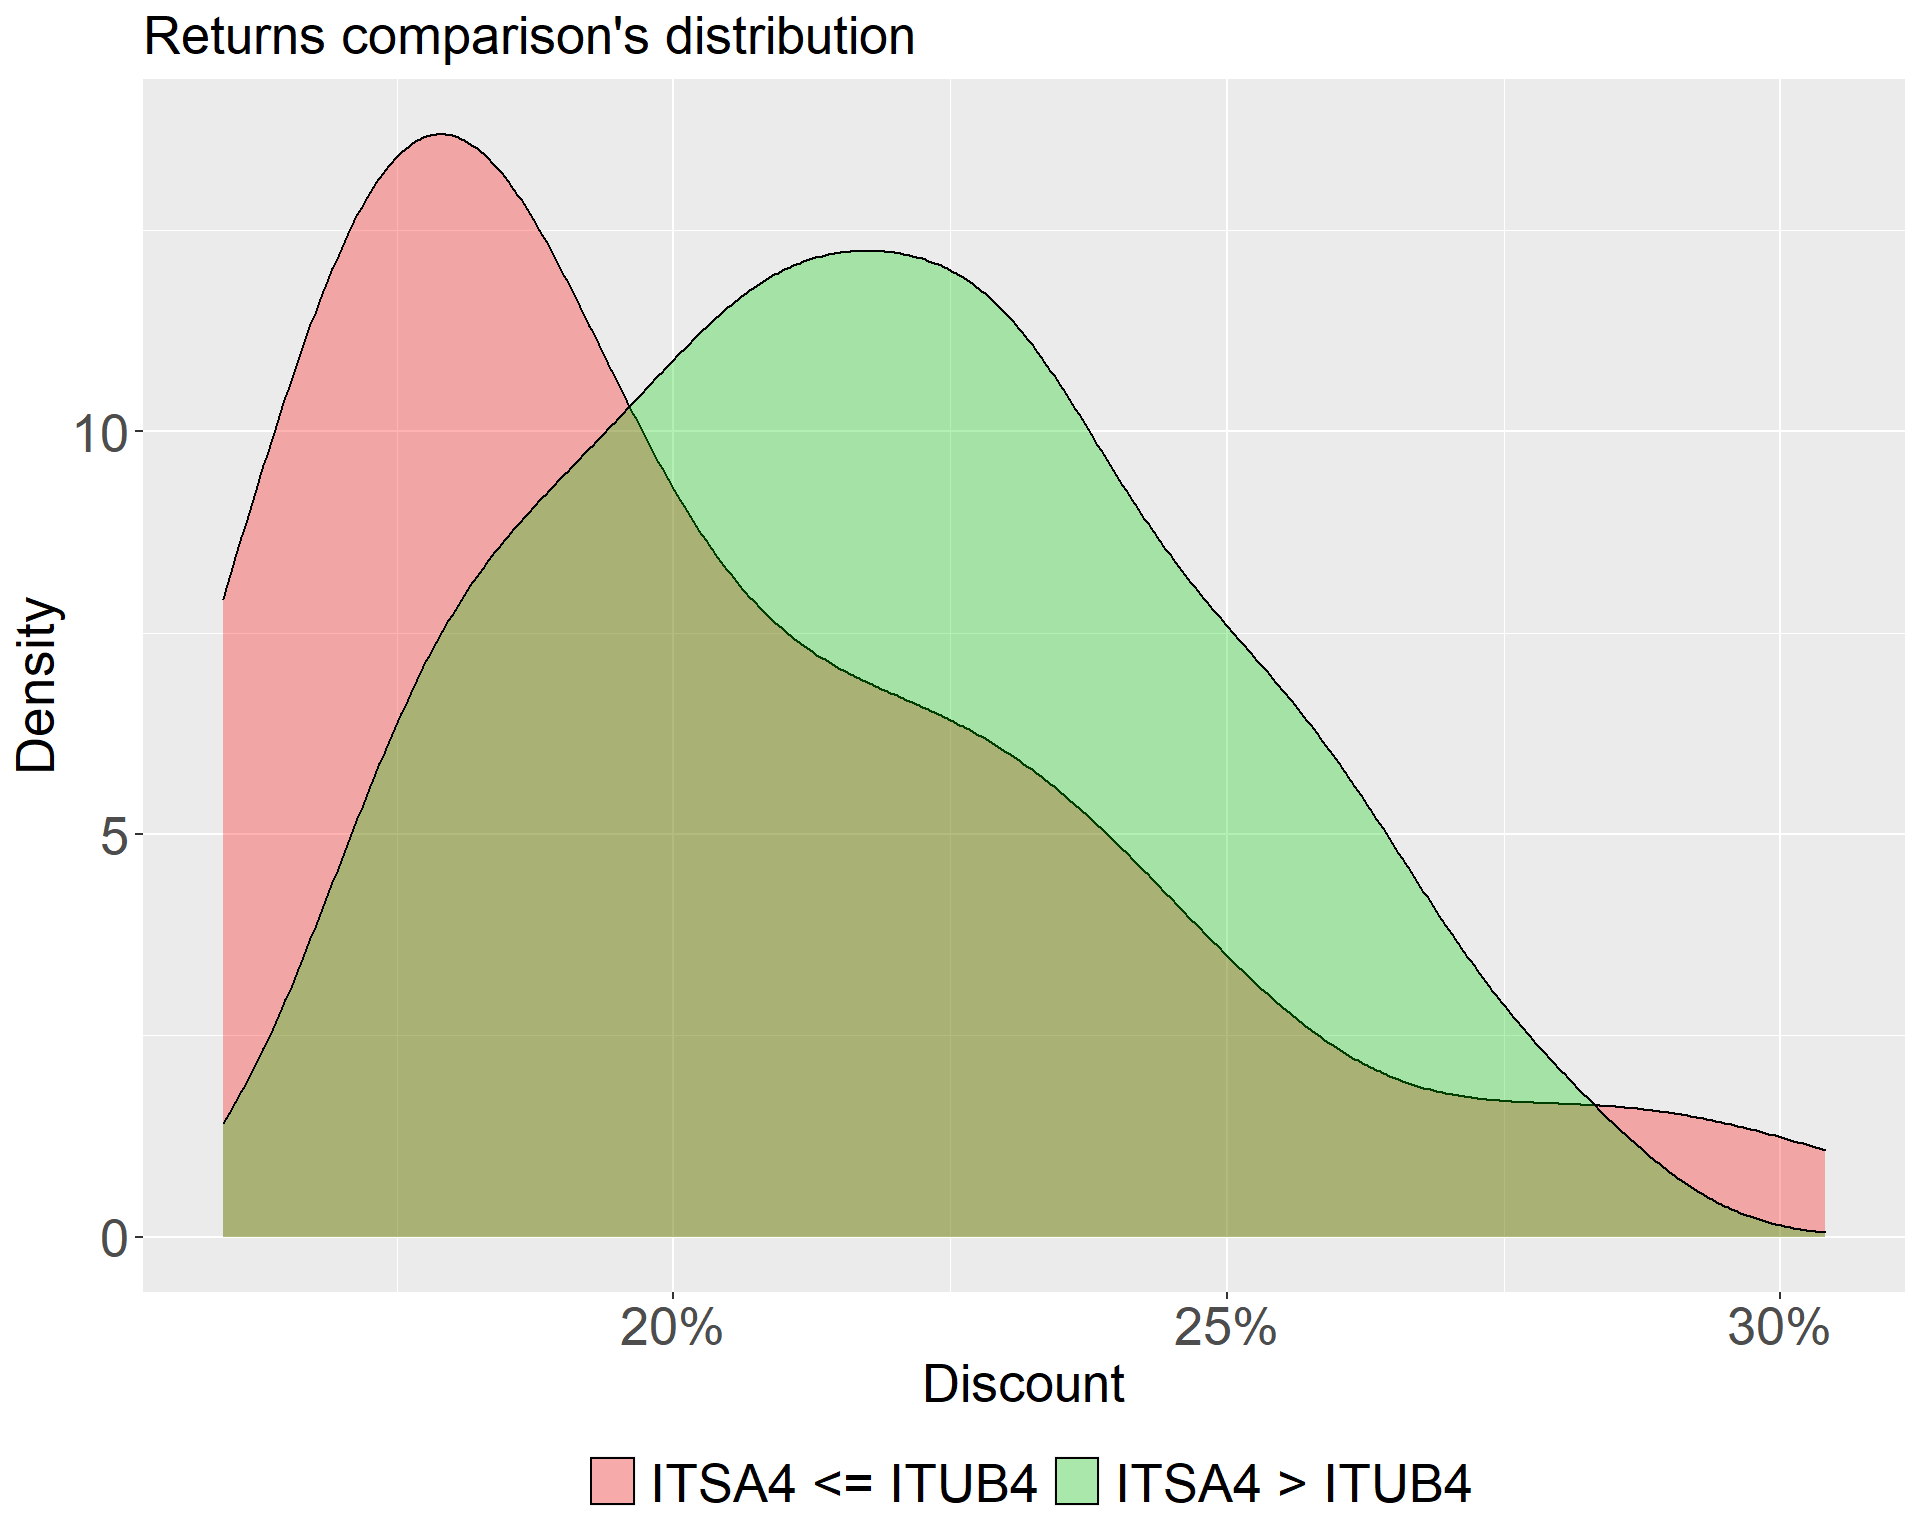
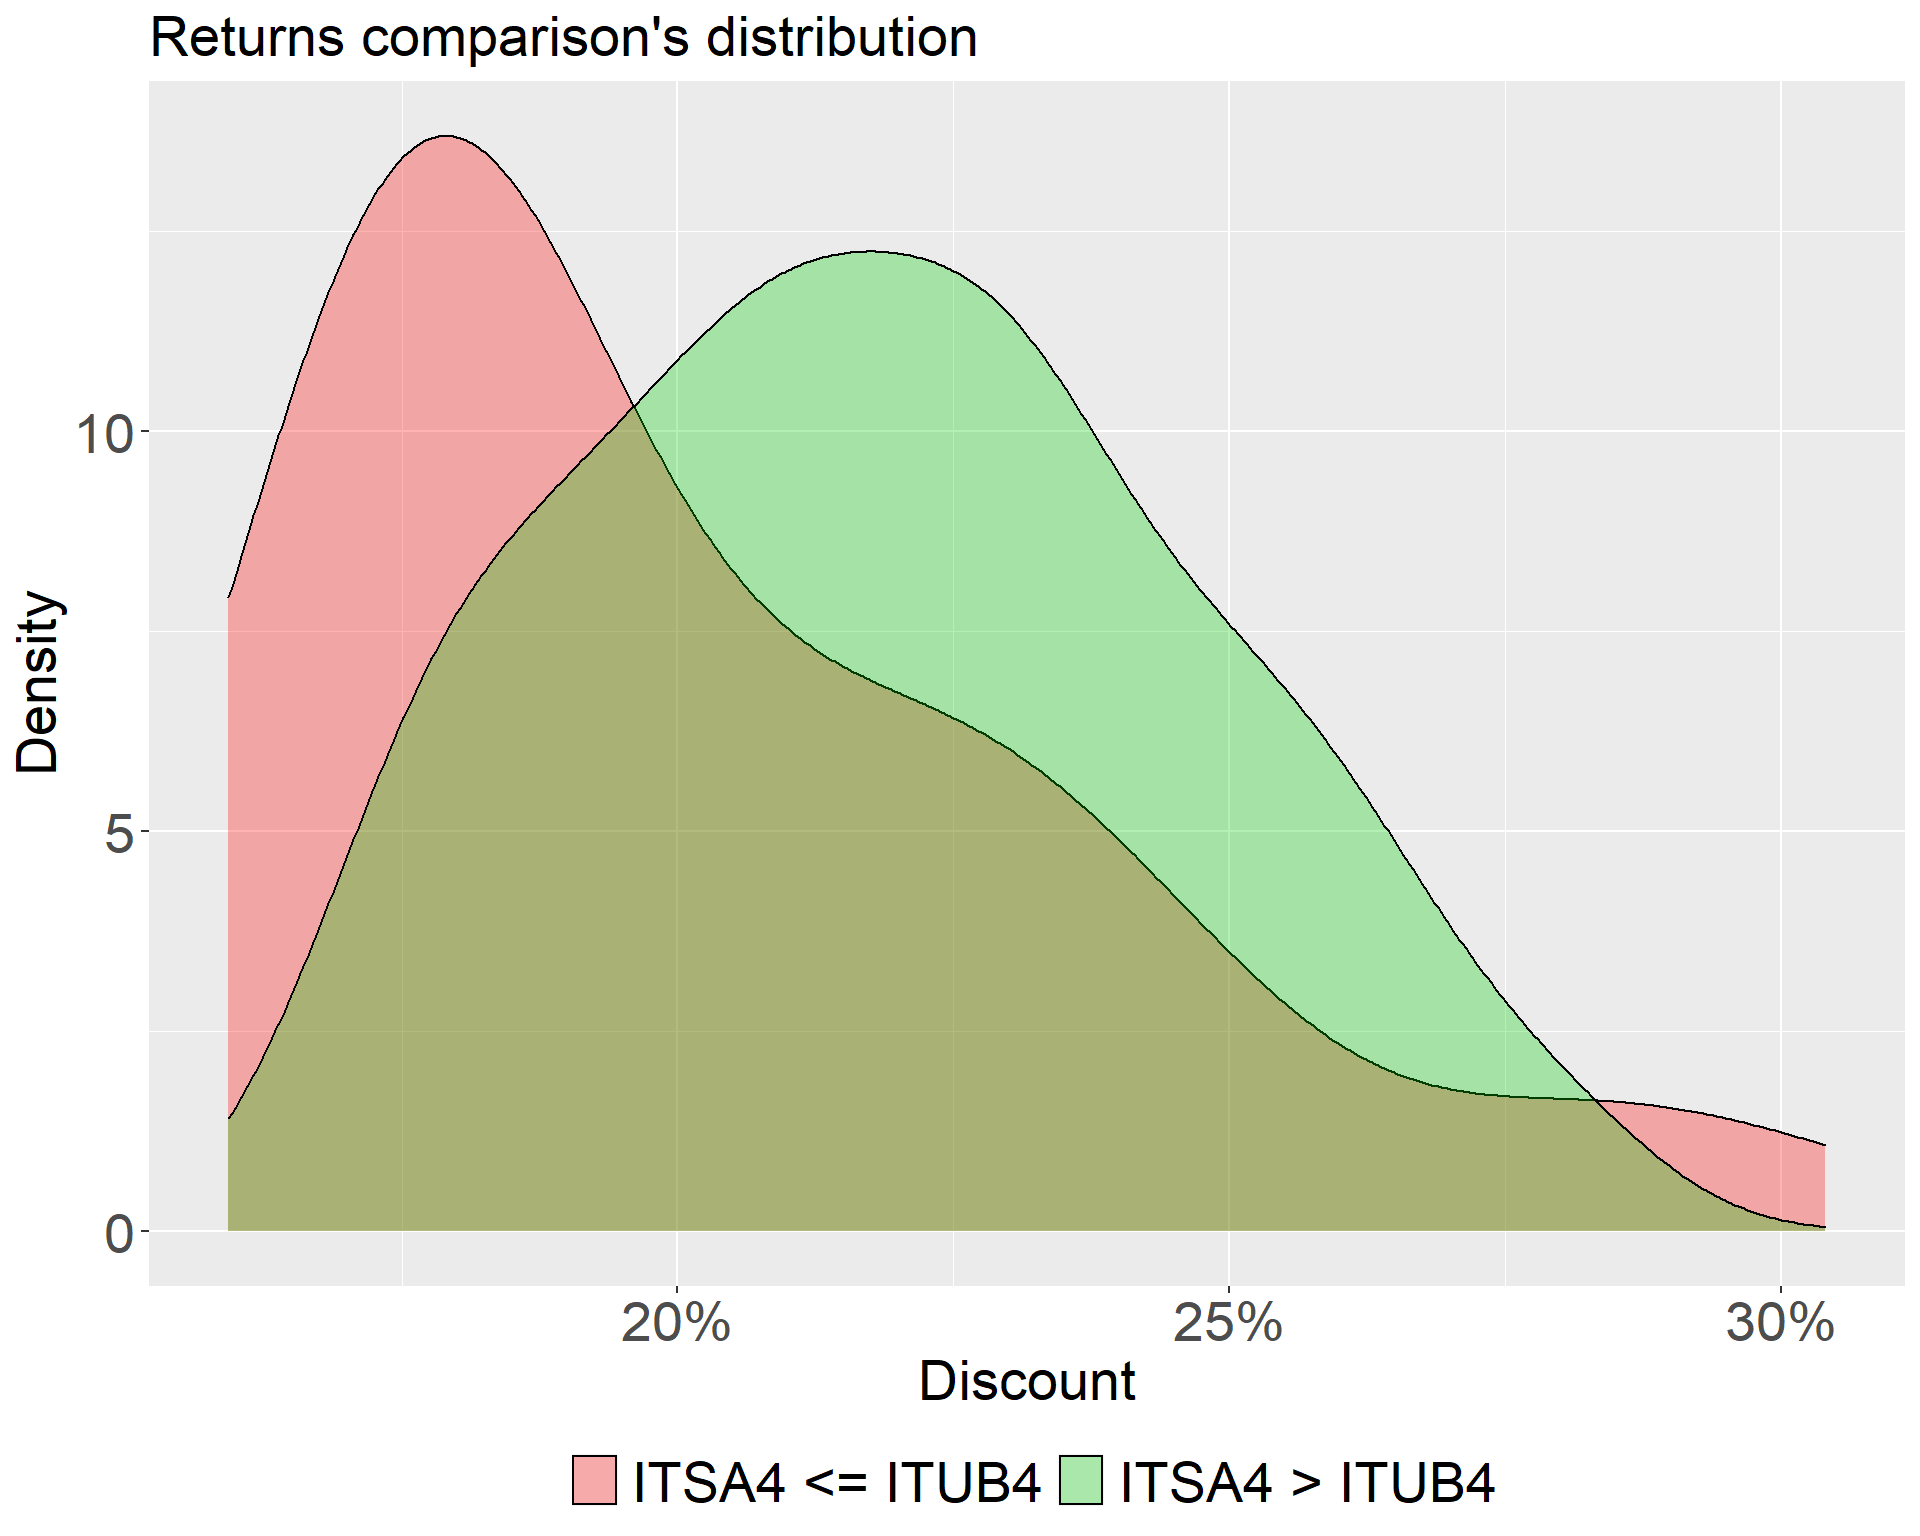
Update post

diff --git a/content/post/2021-07-31-arbitrate-itsa4-itub4/index.en.html b/content/post/2021-07-31-arbitrate-itsa4-itub4/index.en.html
@@ -48,13 +48,13 @@ g &lt;- ggscatter(data = merge, x = &quot;itsa_price&quot;, y = &quot;itub_price
                add.params = list(color = &quot;blue&quot;, fill = &quot;lightgray&quot;), 
                conf.int = TRUE)
 g + 
-  stat_cor(method = &quot;pearson&quot;, label.x = 3, label.y = 30, size = 10) + 
+  stat_cor(method = &quot;pearson&quot;, label.x = 3, label.y = 30, size = 9) + 
   labs(x = &quot;ITSA4&quot;,
        y = &quot;ITUB4&quot;,
        title = &quot;Scatterplot ITSA4 versus ITUB4&quot;) + 
-  theme(axis.text=element_text(size=20),
-        axis.title=element_text(size=20),
-        plot.title = element_text(size=20))</code></pre>
+  theme(axis.text=element_text(size=21),
+        axis.title=element_text(size=21),
+        plot.title = element_text(size=21))</code></pre>
 <p><img src="{{< blogdown/postref >}}index.en_files/figure-html/correlation-1.png" width="960" /></p>
 <p>As you can see, correlatin is equal to 0.99, which means that ITUB4 and ITSA4 mean almost the same thing. As a holding, ITSA4 is traded at a discount in relation to the sum of its investees’ market capitalization. But, how much is the “fair” discount, and can we buy ITSA4 simply to get ITUB4 at lower prices? These are the questions that this post intends to answer.</p>
 <p>Fortunatelly, Itaúsa calculates this discount for us, in a monthly basis (click <a href="https://www.itausa.com.br/ListAtivos.aspx?idCanal=Afrgtrc88Ma15TQHbkasoQ==&amp;linguagem=pt&amp;ano=2021">here</a> to get the data). If you don’t want to or don’t know how to get your hands dirty, I have already done the job, which you can see on the plot below:</p>
@@ -78,9 +78,9 @@ ggplot(data = df, aes(x = date, y = discount)) +
   labs(x = &quot;Date&quot;,
        y = &quot;Discount&quot;,
        title = &quot;Holding&#39;s discount in relation to shares held in investee companies&quot;) + 
-  theme(axis.text=element_text(size=20),
-        axis.title=element_text(size=20),
-        plot.title = element_text(size=20))</code></pre>
+  theme(axis.text=element_text(size=21),
+        axis.title=element_text(size=21),
+        plot.title = element_text(size=21))</code></pre>
 <p><img src="{{< blogdown/postref >}}index.en_files/figure-html/plot%20discount%20time%20series-1.png" width="960" /></p>
 <p>Dashed horizontal lines represent the mean (at the center), mean plus 1 standard deviation (at the top), and mean minus 1 standard deviation (at the bottom). In other words, in most part of the time, this discount ranges between something like 18% and 25%. Another way of visualizing the same information is plotting an histogram:</p>
 <pre class="r"><code># plot distribution
@@ -93,9 +93,9 @@ ggplot(data = df, aes(x = discount)) +
        title = &quot;Discount&#39;s Distribution&quot;) + 
   geom_vline(xintercept = mean(df$discount), 
              linetype = &quot;dashed&quot;, size = 1, color = &quot;red&quot;) + 
-  theme(axis.text=element_text(size=20),
-        axis.title=element_text(size=20),
-        plot.title = element_text(size=20))</code></pre>
+  theme(axis.text=element_text(size=21),
+        axis.title=element_text(size=21),
+        plot.title = element_text(size=21))</code></pre>
 <p><img src="{{< blogdown/postref >}}index.en_files/figure-html/discount%20histogram-1.png" width="960" /></p>
 <p>Red dashed vertical line represents the mean. Distribution is rigth-skewed, which means that in some occasions the discount was too high (more than 30%). Numerically, let’s view the summary stats:</p>
 <pre class="r"><code># summary statistics
@@ -147,9 +147,9 @@ ggplot(data = data,
        title = &quot;Returns comparison&#39;s boxplot&quot;) + 
   theme(legend.position = &quot;none&quot;) + 
   scale_fill_manual(values = c(&quot;red3&quot;,&quot;green4&quot;)) + 
-  theme(axis.text=element_text(size=20),
-        axis.title=element_text(size=20),
-        plot.title = element_text(size=20))</code></pre>
+  theme(axis.text=element_text(size=21),
+        axis.title=element_text(size=21),
+        plot.title = element_text(size=21))</code></pre>
 <p><img src="{{< blogdown/postref >}}index.en_files/figure-html/sucess%20failure%20boxplot-1.png" width="960" /></p>
 <p>A density distribution:</p>
 <pre class="r"><code># density of difference on returns                           
@@ -161,10 +161,10 @@ ggplot(data = data, aes(x = discount, fill = factor(success))) +
        title = &quot;Returns comparison&#39;s distribution&quot;) + 
   theme(legend.position = &quot;bottom&quot;,
         legend.title = element_blank(),
-        legend.text = element_text(size=20),
-        axis.text=element_text(size=20),
-        axis.title=element_text(size=20),
-        plot.title = element_text(size=20)) + 
+        legend.text = element_text(size=21),
+        axis.text=element_text(size=21),
+        axis.title=element_text(size=21),
+        plot.title = element_text(size=21)) + 
   scale_fill_manual(labels = c(&quot;ITSA4 &lt;= ITUB4&quot;, &quot;ITSA4 &gt; ITUB4&quot;),
                     values = c(&quot;red&quot;,&quot;green3&quot;))</code></pre>
 <p><img src="{{< blogdown/postref >}}index.en_files/figure-html/success%20failure%20density-1.png" width="960" /></p>
@@ -182,10 +182,10 @@ data %&gt;%
        y = &quot;Count&quot;,
        title = &quot;Returns comparison&#39;s distribution&quot;) + 
   theme(legend.position = &quot;none&quot;,
-        axis.text=element_text(size=20),
-        axis.title=element_text(size=20),
-        plot.title = element_text(size=20),
-        strip.text = element_text(size = 20)) + 
+        axis.text=element_text(size=21),
+        axis.title=element_text(size=21),
+        plot.title = element_text(size=21),
+        strip.text = element_text(size = 21)) + 
   scale_fill_manual(values=c(&quot;red&quot;, &quot;green3&quot;))</code></pre>
 <p><img src="{{< blogdown/postref >}}index.en_files/figure-html/success%20failure%20histogram-1.png" width="960" /></p>
 <p>On the three plots, we conclude that ITSA4 returns were higher than ITUB4 returns when ITSA4 was traded at a higher discount in relation to the sum of its investees’ market capitalization (which is pretty intuitive). About the third plot, green bars are much higher just because it is more frequent that ITSA4 gets a better return than ITUB4.</p>
@@ -229,10 +229,10 @@ data %&gt;%
         panel.grid.minor.x=element_blank(),
         panel.grid.major.y=element_line(linetype=&quot;dashed&quot;, color=&quot;black&quot;),
         axis.text.x=element_blank(),
-        axis.text.y=element_text(size = 20),
+        axis.text.y=element_text(size = 21),
         axis.ticks.x=element_blank(),
-        axis.title=element_text(size=20),
-        plot.title = element_text(size=20)) + 
+        axis.title=element_text(size=21),
+        plot.title = element_text(size=21)) + 
   labs(x = &quot;Probability&quot;,
        y = &quot;Discount&quot;,
        title = &quot;Probability of ITSA4 &gt; ITUB4 Returns&quot;) + 
@@ -252,13 +252,13 @@ ggplot(data = data, aes(x = date,
   scale_y_continuous(labels = percent_format(accuracy = 1)) + 
   theme(legend.position = &quot;bottom&quot;,
         legend.title = element_blank(),
-        legend.text = element_text(size=20),
-        axis.text=element_text(size=20),
-        axis.title=element_text(size=20),
-        plot.title = element_text(size=20)) +
+        legend.text = element_text(size=21),
+        axis.text=element_text(size=21),
+        axis.title=element_text(size=21),
+        plot.title = element_text(size=21)) +
   scale_color_manual(values=c(&quot;red&quot;, &quot;green3&quot;), 
                      labels=c(&quot;ITSA4 &lt;= ITUB4&quot;, &quot;ITSA4 &gt; ITUB4&quot;))</code></pre>
 <p><img src="{{< blogdown/postref >}}index.en_files/figure-html/success%20failure%20time%20series-1.png" width="960" /></p>
 <p>The drop on probability seen on previous graph is due to the first observations (end of year 2005 and beginning of 2006), when the pattern studied in this post didn’t work very well.</p>
 <p>At Jun 2021, ITSA4 was being traded at a discount of 24%. And then, are you going to buy, keep or sell?</p>
-<p>Obs.: you can get data set about ITSA4 discounts and codes on my Github repository, clicking (here)[<a href="https://github.com/Sidonesio/ITSA4" class="uri">https://github.com/Sidonesio/ITSA4</a>].</p>
+<p>Obs.: you can get data set about ITSA4 discounts and codes on my Github repository, clicking <a href="https://github.com/Sidonesio/ITSA4">here</a>.</p>
